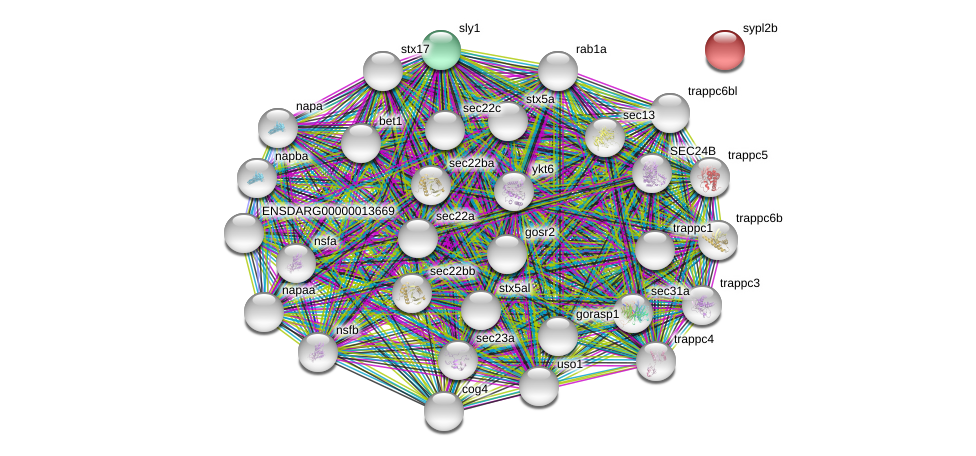
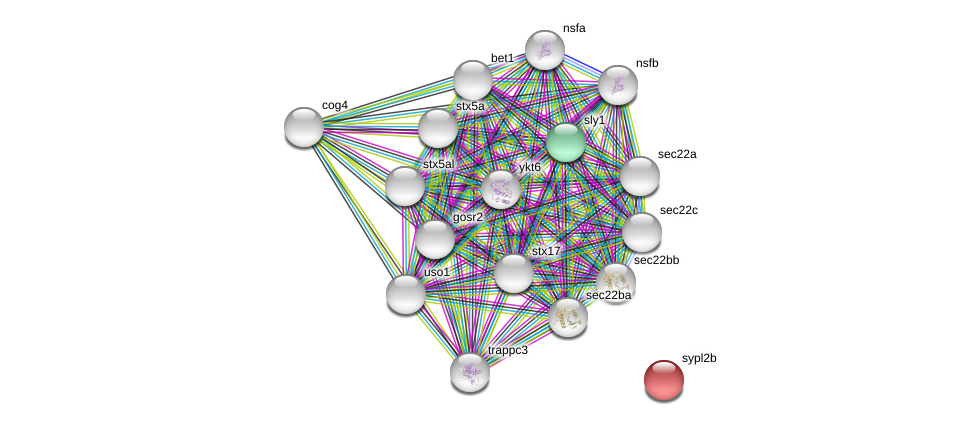
debug IDEA integration of interaction_evidence component

diff --git a/interaction_evidence.py b/interaction_evidence.py
@@ -1,0 +1,43 @@
+# using a list of proteins, select only interactions
+# which have experimental evidence and print scores
+
+import urllib.request
+import sys
+
+def request():
+    string_api_url = "https://string-db.org/api"
+    output_format = "tsv-no-header"
+    method = "network"
+
+    my_genes = ["ENSDARG00000003495", "ENSDARG00000007245",
+                "ENSDARG00000000779", "ENSDARG00000000690",
+                "ENSDARG00000002909", "ENSDARG00000002790"]
+
+   # use taxonomy ID for zebrafish
+    species = "7955"
+    my_app = "dev.azure.com/MDIBL"
+
+    # construct request
+    request_url = string_api_url + "/" + output_format + "/" + method + "?"
+    request_url += "identifiers=%s" % "%0d".join(my_genes)
+    request_url += "&" + "species=" + species
+    request_url += "&" + "caller_identity=" + my_app
+
+    try:
+        response = urllib.request.urlopen(request_url)
+    except urllib.request.HTTPError as err:
+        error_message = err.read()
+        print (error_message)
+        sys.exit()
+
+    # read and parse results
+    line = response.readline()
+
+    while line:
+        l = line.strip().split("\t")
+        p1, p2 = l[2], l[3]
+        experimental_score = float(l[10])
+        if experimental_score != 0:
+            print ("\t".join([p1,p2, "experimentally confirmed (prob. %.3f)" % experimental_score]))
+    
+        line = response.readline()

diff --git a/IDEA_mk1.py b/IDEA_mk1.py
@@ -4,12 +4,14 @@ import csv
 import json
 import sys
 import urllib.request
-import string_call
+import interaction_visualization
+import interaction_evidence
 import data_access
+import subprocess
 from time import sleep
 
 # read in csv file
-# this is somewhat deprecated as data_access includes this feature
+# this is deprecated as data_access includes this feature
 df = pd.read_csv(
     '/Users/nmaki/Documents/GitHub/IDEA/DESeq2_genes_wPC_DESeq2out.csv',
     sep=',')
@@ -19,8 +21,12 @@ log2FoldChange_sort.to_csv(
     "/Users/nmaki/Documents/GitHub/IDEA/DESeq2_genes_wPC_DESeq2out_edited.csv",
     index=False)
 
-
-string_call.request()
 data_access.select()
-print("This is a divider")
 data_access.threshold()
+
+print("STRING interaction database components below:")
+
+interaction_evidence.request()
+interaction_visualization.request()
+
+

diff --git a/interaction_visualization.py b/interaction_visualization.py
@@ -1,3 +1,6 @@
+# for each pair of proteins in a list, save PNG image of
+# STRING network for defined # of confident interacting partners
+
 import urllib.request
 from time import sleep
 
@@ -18,7 +21,7 @@ def request():
     request_url = string_api_url + "/" + output_format + "/" + method + "?"
     request_url += "identifiers=%s"
     request_url += "&" + "species=" + species
-    request_url += "&" + "add_white_nodes=30"
+    request_url += "&" + "add_white_nodes=15"
     request_url += "&" + "caller_identity=" + my_app
 
     # for each gene, call STRING

diff --git a/data_access.py b/data_access.py
@@ -14,9 +14,10 @@ def select():
     print(padj_df)
     print(log2fc_df)
 
-# threholding function for p-val, padj,l2fc
+# thresholding function for p-val, padj,l2fc
 def threshold():
     df = pd.read_csv('eDESeq2.csv')
     thresh_df = df[['genes', 'pvalue', 'padj', 'log2FoldChange']]
     thresh_val = thresh_df.loc[(thresh_df['pvalue'] < 0.05) & (thresh_df['padj'] < 0.1) & (thresh_df['log2FoldChange'] < 0.5)]
     print(thresh_val)
+    print(thresh_val['genes'])
